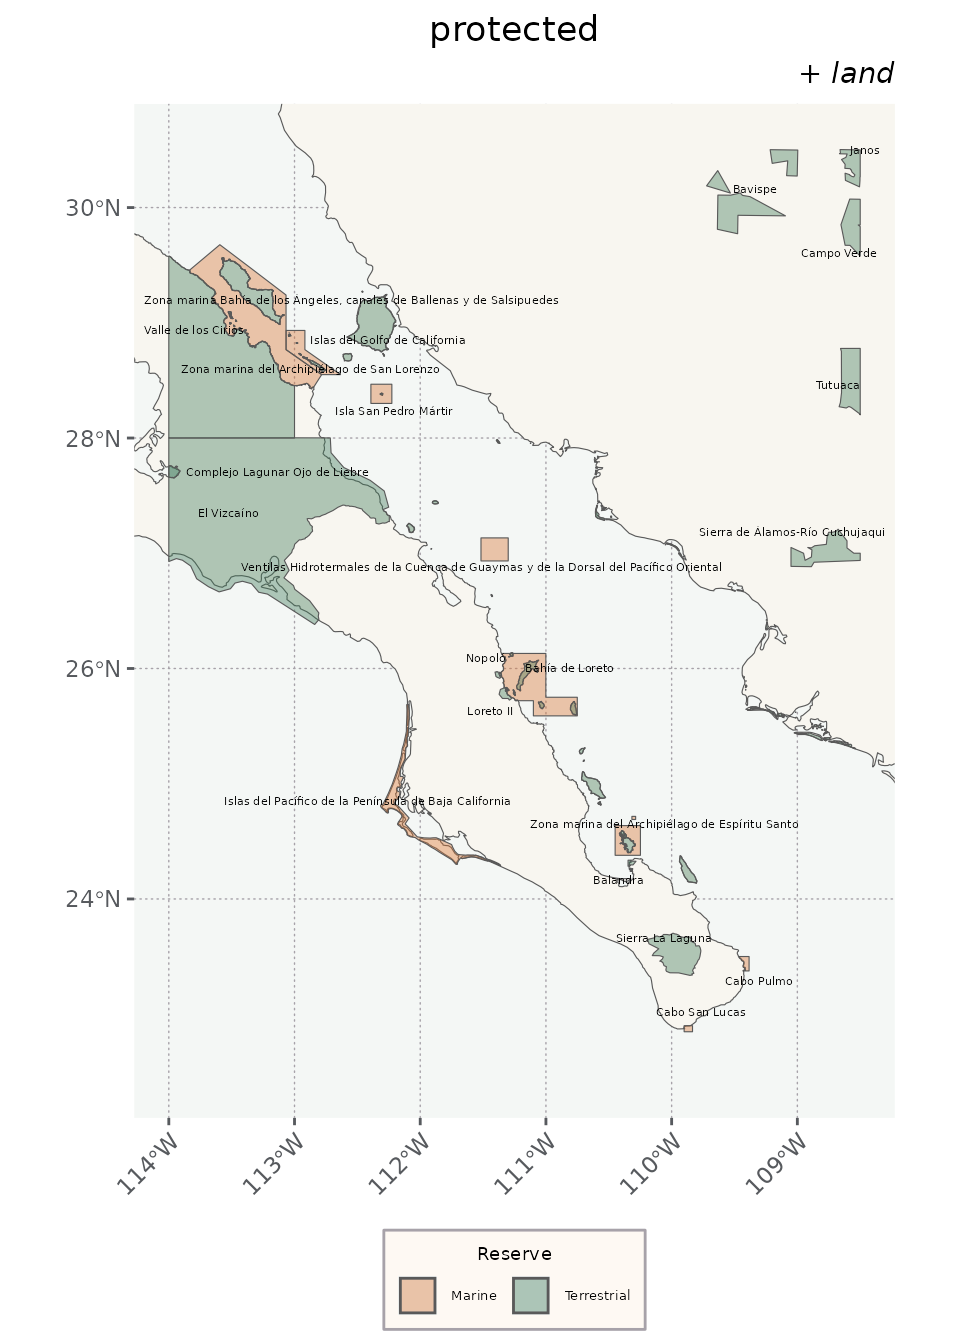
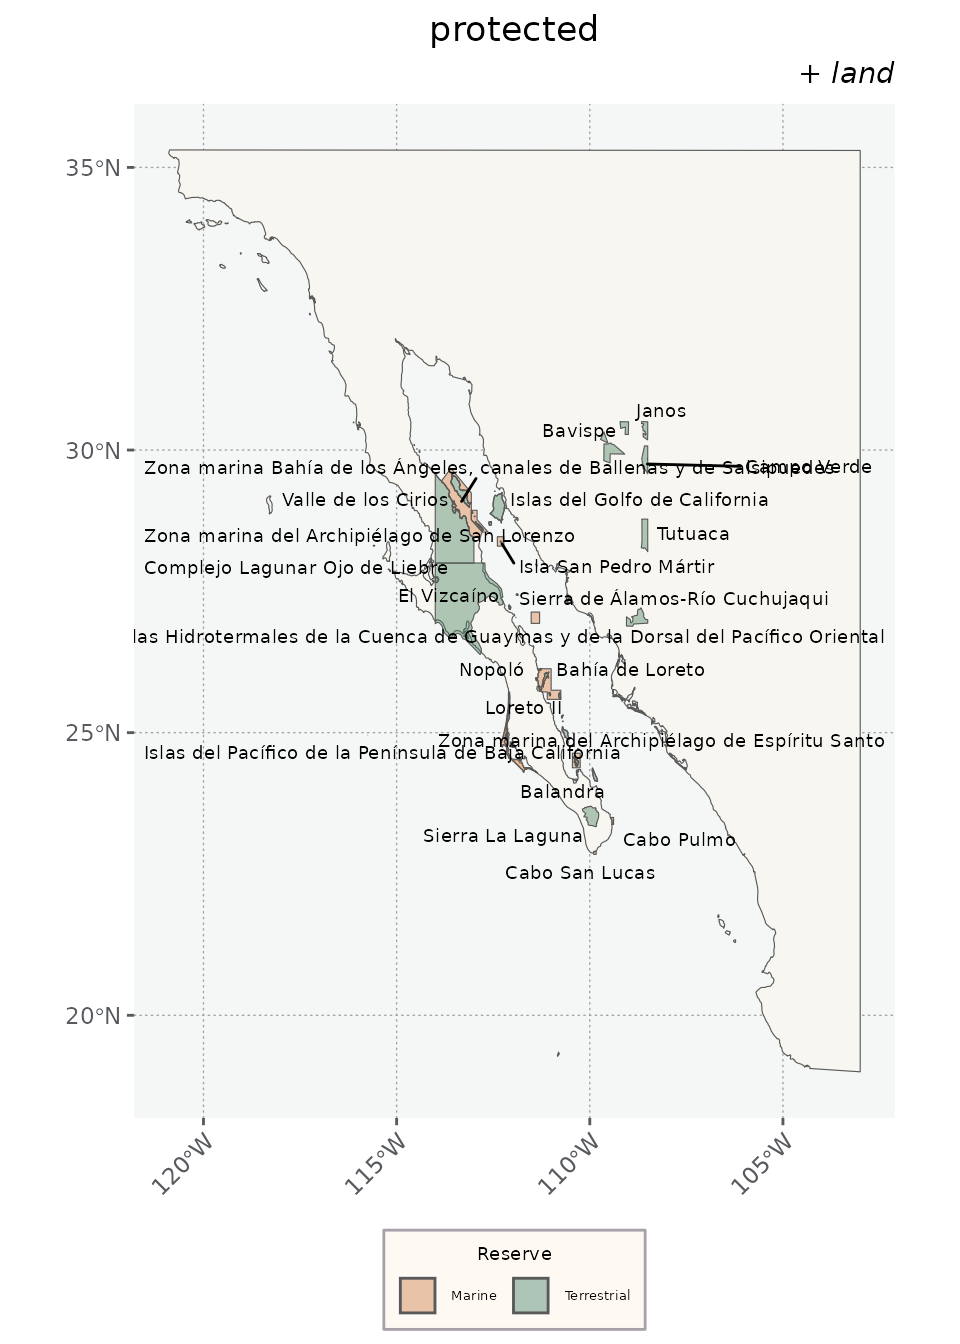
Deploying to gh-pages from @ sagesteppe/flyer@80238ea3a1f1b4fb51f1b402fb9bb1b5322dd785 🚀

diff --git a/articles/ExploreDataSets.html b/articles/ExploreDataSets.html
@@ -83,16 +83,7 @@ you’ll be quite excited to have them.</p>
 <div class="sourceCode" id="cb2"><pre class="downlit sourceCode r">
 <code class="sourceCode R"><span><span class="kw"><a href="https://rdrr.io/r/base/library.html" class="external-link">library</a></span><span class="op">(</span><span class="va"><a href="https://sagesteppe.github.io/flyer">flyer</a></span><span class="op">)</span></span>
 <span><span class="kw"><a href="https://rdrr.io/r/base/library.html" class="external-link">library</a></span><span class="op">(</span><span class="va"><a href="https://dplyr.tidyverse.org" class="external-link">dplyr</a></span><span class="op">)</span> <span class="co"># for general data handling</span></span>
-<span><span class="co">#&gt; </span></span>
-<span><span class="co">#&gt; Attaching package: 'dplyr'</span></span>
-<span><span class="co">#&gt; The following objects are masked from 'package:stats':</span></span>
-<span><span class="co">#&gt; </span></span>
-<span><span class="co">#&gt;     filter, lag</span></span>
-<span><span class="co">#&gt; The following objects are masked from 'package:base':</span></span>
-<span><span class="co">#&gt; </span></span>
-<span><span class="co">#&gt;     intersect, setdiff, setequal, union</span></span>
 <span><span class="kw"><a href="https://rdrr.io/r/base/library.html" class="external-link">library</a></span><span class="op">(</span><span class="va"><a href="https://r-spatial.github.io/sf/" class="external-link">sf</a></span><span class="op">)</span> <span class="co"># for spatial data</span></span>
-<span><span class="co">#&gt; Linking to GEOS 3.12.1, GDAL 3.8.4, PROJ 9.4.0; sf_use_s2() is TRUE</span></span>
 <span></span>
 <span><span class="kw"><a href="https://rdrr.io/r/base/library.html" class="external-link">library</a></span><span class="op">(</span><span class="va"><a href="https://ggplot2.tidyverse.org" class="external-link">ggplot2</a></span><span class="op">)</span> <span class="co"># all for plotting the data </span></span>
 <span><span class="kw"><a href="https://rdrr.io/r/base/library.html" class="external-link">library</a></span><span class="op">(</span><span class="va"><a href="https://eliocamp.github.io/ggnewscale/" class="external-link">ggnewscale</a></span><span class="op">)</span> <span class="co"># for mapping multiple variables to an aesthetic. </span></span>
@@ -102,8 +93,7 @@ you’ll be quite excited to have them.</p>
 the <code>pretty</code> function does not always return the requested
 <code>n</code>, so…</p>
 <div class="sourceCode" id="cb3"><pre class="downlit sourceCode r">
-<code class="sourceCode R"><span></span>
-<span><span class="va">graticNo</span> <span class="op">&lt;-</span> <span class="kw">function</span><span class="op">(</span><span class="va">polygon</span>, <span class="va">nx</span>, <span class="va">ny</span><span class="op">)</span><span class="op">{</span></span>
+<code class="sourceCode R"><span><span class="va">graticNo</span> <span class="op">&lt;-</span> <span class="kw">function</span><span class="op">(</span><span class="va">polygon</span>, <span class="va">nx</span>, <span class="va">ny</span><span class="op">)</span><span class="op">{</span></span>
 <span>  </span>
 <span>  <span class="va">bb</span> <span class="op">&lt;-</span> <span class="fu"><a href="https://rdrr.io/r/base/Round.html" class="external-link">round</a></span><span class="op">(</span><span class="fu"><a href="https://r-spatial.github.io/sf/reference/st_bbox.html" class="external-link">st_bbox</a></span><span class="op">(</span><span class="va">polygon</span><span class="op">)</span>, <span class="fl">1</span><span class="op">)</span></span>
 <span>  <span class="kw">if</span><span class="op">(</span><span class="fu"><a href="https://rdrr.io/r/base/all.html" class="external-link">all</a></span><span class="op">(</span><span class="fu"><a href="https://rdrr.io/r/base/missing.html" class="external-link">missing</a></span><span class="op">(</span><span class="va">nx</span><span class="op">)</span> <span class="op">&amp;</span> <span class="fu"><a href="https://rdrr.io/r/base/missing.html" class="external-link">missing</a></span><span class="op">(</span><span class="va">ny</span><span class="op">)</span><span class="op">)</span><span class="op">)</span> <span class="op">{</span><span class="va">nx</span> <span class="op">&lt;-</span> <span class="fl">5</span>;<span class="va">ny</span> <span class="op">&lt;-</span> <span class="fl">5</span><span class="op">}</span> <span class="kw">else</span> <span class="op">{</span></span>
@@ -123,7 +113,6 @@ the <code>pretty</code> function does not always return the requested
 <span><span class="op">}</span></span>
 <span></span>
 <span><span class="va">brks</span> <span class="op">&lt;-</span> <span class="fu">graticNo</span><span class="op">(</span>polygon <span class="op">=</span> <span class="va">places</span>, nx <span class="op">=</span> <span class="fl">4</span>, ny <span class="op">=</span> <span class="fl">4</span><span class="op">)</span></span>
-<span></span>
 <span></span>
 <span><span class="va">theme_nautical</span> <span class="op">&lt;-</span> <span class="kw">function</span><span class="op">(</span><span class="op">)</span> <span class="op">{</span></span>
 <span>  <span class="fu"><a href="https://ggplot2.tidyverse.org/reference/theme.html" class="external-link">theme</a></span><span class="op">(</span></span>
@@ -156,7 +145,7 @@ the <code>pretty</code> function does not always return the requested
 <span></span>
 <span><span class="va">bb</span> <span class="op">&lt;-</span><span class="fu"><a href="https://r-spatial.github.io/sf/reference/st_bbox.html" class="external-link">st_bbox</a></span><span class="op">(</span></span>
 <span>    <span class="fu"><a href="https://rdrr.io/r/base/c.html" class="external-link">c</a></span><span class="op">(</span>xmin <span class="op">=</span> <span class="op">-</span><span class="fl">121</span>, xmax <span class="op">=</span> <span class="op">-</span><span class="fl">105</span>, ymin <span class="op">=</span> <span class="fl">19</span>, ymax <span class="op">=</span> <span class="fl">34.5</span><span class="op">)</span>,  crs <span class="op">=</span> <span class="fu"><a href="https://r-spatial.github.io/sf/reference/st_crs.html" class="external-link">st_crs</a></span><span class="op">(</span><span class="fl">4326</span><span class="op">)</span></span>
-<span>  <span class="op">)</span></span></code></pre></div>
+<span><span class="op">)</span></span></code></pre></div>
 </div>
 <div class="section level2">
 <h2 id="the-data-sets">the data sets<a class="anchor" aria-label="anchor" href="#the-data-sets"></a>
@@ -168,9 +157,9 @@ And spoiler alert… are very simple!</p>
 <p>But before we pull up <code>places</code> and <code>routes</code>
 let’s pull up the <code>land</code> data set so we have some context to
 plot them on.</p>
-<div class="section level5">
-<h5 id="land">land<a class="anchor" aria-label="anchor" href="#land"></a>
-</h5>
+<div class="section level4">
+<h4 id="land">land<a class="anchor" aria-label="anchor" href="#land"></a>
+</h4>
 <p>We can read in some polygons which depict land from
 <code>Natural Earth</code>, from the <code>rnaturalearth</code> package;
 note that I love this packages functionality, even if I get real
@@ -208,9 +197,9 @@ countries to be drawn separately so we can union them.</p>
 <span><span class="va">m</span></span></code></pre></div>
 <p><img src="ExploreDataSets_files/figure-html/union%20land-1.png" width="480"></p>
 </div>
-<div class="section level5">
-<h5 id="places">places<a class="anchor" aria-label="anchor" href="#places"></a>
-</h5>
+<div class="section level4">
+<h4 id="places">places<a class="anchor" aria-label="anchor" href="#places"></a>
+</h4>
 <div class="sourceCode" id="cb6"><pre class="downlit sourceCode r">
 <code class="sourceCode R"><span><span class="fu"><a href="https://rdrr.io/r/utils/data.html" class="external-link">data</a></span><span class="op">(</span><span class="va">places</span><span class="op">)</span></span>
 <span><span class="fu"><a href="https://rdrr.io/r/utils/head.html" class="external-link">head</a></span><span class="op">(</span><span class="va">places</span><span class="op">)</span></span>
@@ -277,9 +266,9 @@ them directly - such as viewing them by calling
 <code>head(object)</code>. We are going to use this direct approach for
 the remainder of the vignette.</p>
 </div>
-<div class="section level5">
-<h5 id="route">route<a class="anchor" aria-label="anchor" href="#route"></a>
-</h5>
+<div class="section level4">
+<h4 id="route">route<a class="anchor" aria-label="anchor" href="#route"></a>
+</h4>
 <div class="sourceCode" id="cb8"><pre class="downlit sourceCode r">
 <code class="sourceCode R"><span><span class="fu"><a href="https://rdrr.io/r/utils/head.html" class="external-link">head</a></span><span class="op">(</span><span class="va">route</span><span class="op">)</span></span>
 <span><span class="co">#&gt; Simple feature collection with 6 features and 1 field</span></span>
@@ -480,8 +469,7 @@ mapping these classes.</p>
 <p>Additionally, information on protected areas of Mexico are also
 included.</p>
 <div class="sourceCode" id="cb16"><pre class="downlit sourceCode r">
-<code class="sourceCode R"><span></span>
-<span><span class="va">protected</span> <span class="op">&lt;-</span> <span class="fu"><a href="https://r-spatial.github.io/sf/reference/st_crop.html" class="external-link">st_crop</a></span><span class="op">(</span><span class="va">protected</span>, <span class="va">bb</span><span class="op">)</span></span>
+<code class="sourceCode R"><span><span class="va">protected</span> <span class="op">&lt;-</span> <span class="fu"><a href="https://r-spatial.github.io/sf/reference/st_crop.html" class="external-link">st_crop</a></span><span class="op">(</span><span class="va">protected</span>, <span class="va">bb</span><span class="op">)</span></span>
 <span></span>
 <span><span class="fu"><a href="https://ggplot2.tidyverse.org/reference/ggplot.html" class="external-link">ggplot</a></span><span class="op">(</span><span class="op">)</span> <span class="op">+</span> </span>
 <span>  <span class="fu"><a href="https://ggplot2.tidyverse.org/reference/ggsf.html" class="external-link">geom_sf</a></span><span class="op">(</span>data <span class="op">=</span> <span class="va">land</span>, fill <span class="op">=</span> <span class="st">'#F8F6F0'</span><span class="op">)</span> <span class="op">+</span> </span>
@@ -494,20 +482,58 @@ included.</p>
 <span>    data <span class="op">=</span> <span class="va">protected</span>,</span>
 <span>    <span class="fu"><a href="https://ggplot2.tidyverse.org/reference/aes.html" class="external-link">aes</a></span><span class="op">(</span>label <span class="op">=</span> <span class="va">name</span>, geometry <span class="op">=</span> <span class="va">geometry</span><span class="op">)</span>,</span>
 <span>    stat <span class="op">=</span> <span class="st">"sf_coordinates"</span>,</span>
-<span>    size <span class="op">=</span> <span class="fl">1.5</span></span>
+<span>    size <span class="op">=</span> <span class="fl">2.5</span></span>
 <span>    <span class="op">)</span> <span class="op">+</span> </span>
 <span>  <span class="fu"><a href="https://ggplot2.tidyverse.org/reference/labs.html" class="external-link">labs</a></span><span class="op">(</span>x <span class="op">=</span> <span class="cn">NULL</span>, y <span class="op">=</span> <span class="cn">NULL</span>, title <span class="op">=</span> <span class="st">'protected'</span>, subtitle <span class="op">=</span> <span class="st">'+ land'</span><span class="op">)</span> <span class="op">+</span> </span>
 <span></span>
-<span>  <span class="fu">theme_nautical</span><span class="op">(</span><span class="op">)</span>  <span class="op">+</span> </span>
-<span>  <span class="fu"><a href="https://ggplot2.tidyverse.org/reference/ggsf.html" class="external-link">coord_sf</a></span><span class="op">(</span>xlim <span class="op">=</span> <span class="fu"><a href="https://rdrr.io/r/base/c.html" class="external-link">c</a></span><span class="op">(</span><span class="va">bb</span><span class="op">[</span><span class="fl">1</span><span class="op">]</span>, <span class="va">bb</span><span class="op">[</span><span class="fl">3</span><span class="op">]</span><span class="op">)</span>, ylim <span class="op">=</span> <span class="fu"><a href="https://rdrr.io/r/base/c.html" class="external-link">c</a></span><span class="op">(</span><span class="va">bb</span><span class="op">[</span><span class="fl">2</span><span class="op">]</span>, <span class="va">bb</span><span class="op">[</span><span class="fl">4</span><span class="op">]</span><span class="op">)</span><span class="op">)</span></span></code></pre></div>
+<span>  <span class="fu">theme_nautical</span><span class="op">(</span><span class="op">)</span>  <span class="co">#+ </span></span></code></pre></div>
 <p><img src="ExploreDataSets_files/figure-html/Protected%20areas-1.png" width="480"></p>
+<div class="sourceCode" id="cb17"><pre class="downlit sourceCode r">
+<code class="sourceCode R"><span>  <span class="fu"><a href="https://ggplot2.tidyverse.org/reference/ggsf.html" class="external-link">coord_sf</a></span><span class="op">(</span>xlim <span class="op">=</span> <span class="fu"><a href="https://rdrr.io/r/base/c.html" class="external-link">c</a></span><span class="op">(</span><span class="va">bb</span><span class="op">[</span><span class="fl">1</span><span class="op">]</span>, <span class="va">bb</span><span class="op">[</span><span class="fl">3</span><span class="op">]</span><span class="op">)</span>, ylim <span class="op">=</span> <span class="fu"><a href="https://rdrr.io/r/base/c.html" class="external-link">c</a></span><span class="op">(</span><span class="va">bb</span><span class="op">[</span><span class="fl">2</span><span class="op">]</span>, <span class="va">bb</span><span class="op">[</span><span class="fl">4</span><span class="op">]</span><span class="op">)</span><span class="op">)</span></span>
+<span><span class="co">#&gt; &lt;ggproto object: Class CoordSf, CoordCartesian, Coord, gg&gt;</span></span>
+<span><span class="co">#&gt;     aspect: function</span></span>
+<span><span class="co">#&gt;     backtransform_range: function</span></span>
+<span><span class="co">#&gt;     clip: on</span></span>
+<span><span class="co">#&gt;     crs: NULL</span></span>
+<span><span class="co">#&gt;     datum: crs</span></span>
+<span><span class="co">#&gt;     default: FALSE</span></span>
+<span><span class="co">#&gt;     default_crs: NULL</span></span>
+<span><span class="co">#&gt;     determine_crs: function</span></span>
+<span><span class="co">#&gt;     distance: function</span></span>
+<span><span class="co">#&gt;     expand: TRUE</span></span>
+<span><span class="co">#&gt;     fixup_graticule_labels: function</span></span>
+<span><span class="co">#&gt;     get_default_crs: function</span></span>
+<span><span class="co">#&gt;     is_free: function</span></span>
+<span><span class="co">#&gt;     is_linear: function</span></span>
+<span><span class="co">#&gt;     label_axes: list</span></span>
+<span><span class="co">#&gt;     label_graticule: </span></span>
+<span><span class="co">#&gt;     labels: function</span></span>
+<span><span class="co">#&gt;     limits: list</span></span>
+<span><span class="co">#&gt;     lims_method: cross</span></span>
+<span><span class="co">#&gt;     modify_scales: function</span></span>
+<span><span class="co">#&gt;     ndiscr: 100</span></span>
+<span><span class="co">#&gt;     params: list</span></span>
+<span><span class="co">#&gt;     range: function</span></span>
+<span><span class="co">#&gt;     record_bbox: function</span></span>
+<span><span class="co">#&gt;     render_axis_h: function</span></span>
+<span><span class="co">#&gt;     render_axis_v: function</span></span>
+<span><span class="co">#&gt;     render_bg: function</span></span>
+<span><span class="co">#&gt;     render_fg: function</span></span>
+<span><span class="co">#&gt;     setup_data: function</span></span>
+<span><span class="co">#&gt;     setup_layout: function</span></span>
+<span><span class="co">#&gt;     setup_panel_guides: function</span></span>
+<span><span class="co">#&gt;     setup_panel_params: function</span></span>
+<span><span class="co">#&gt;     setup_params: function</span></span>
+<span><span class="co">#&gt;     train_panel_guides: function</span></span>
+<span><span class="co">#&gt;     transform: function</span></span>
+<span><span class="co">#&gt;     super:  &lt;ggproto object: Class CoordSf, CoordCartesian, Coord, gg&gt;</span></span></code></pre></div>
 </div>
 </div>
 <div class="section level2">
 <h2 id="putting-it-all-together">putting it all together<a class="anchor" aria-label="anchor" href="#putting-it-all-together"></a>
 </h2>
 <p>We can make an OK map using some of the details below.</p>
-<div class="sourceCode" id="cb17"><pre class="downlit sourceCode r">
+<div class="sourceCode" id="cb18"><pre class="downlit sourceCode r">
 <code class="sourceCode R"><span><span class="fu"><a href="https://ggplot2.tidyverse.org/reference/ggplot.html" class="external-link">ggplot</a></span><span class="op">(</span><span class="op">)</span> <span class="op">+</span> </span>
 <span>  </span>
 <span>  <span class="co"># the stage</span></span>
@@ -550,7 +576,7 @@ included.</p>
 <span><span class="co">#&gt; Warning in st_point_on_surface.sfc(sf::st_zm(x)): st_point_on_surface may not</span></span>
 <span><span class="co">#&gt; give correct results for longitude/latitude data</span></span></code></pre></div>
 <p><img src="ExploreDataSets_files/figure-html/unnamed-chunk-5-1.png" width="480"></p>
-<div class="sourceCode" id="cb18"><pre class="downlit sourceCode r">
+<div class="sourceCode" id="cb19"><pre class="downlit sourceCode r">
 <code class="sourceCode R"><span><span class="fu"><a href="https://rdrr.io/r/base/rm.html" class="external-link">rm</a></span><span class="op">(</span><span class="va">graticNo</span>, <span class="va">brks</span>, <span class="va">theme_nautical</span>, <span class="va">route</span>, <span class="va">places</span>, <span class="va">bb</span>, <span class="va">landcover</span>, <span class="va">lc_pal</span>, <span class="va">land</span>,</span>
 <span>   <span class="va">protected</span>, <span class="va">bathymetry</span>, <span class="va">topography</span><span class="op">)</span></span></code></pre></div>
 </div>
